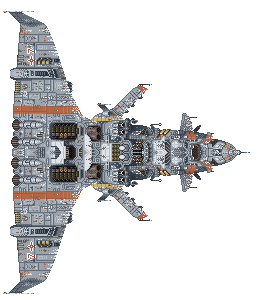
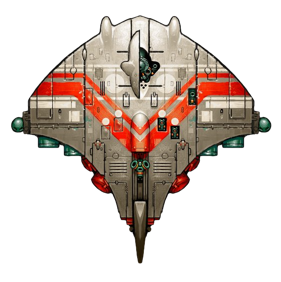
+ new game, 3 types of ship

diff --git a/lib/game_window.rb b/lib/game_window.rb
@@ -144,15 +144,14 @@ class GameWindow < Gosu::Window
   # Adds the first player.
   #
   def add_player1
-    @player1 = Player.new self
-    @player1.warp_to 30, 50 # move to the center of the window
-    # @player1.colorize 255, 0, 0
+    @player1 = Admiral.new self
+    @player1.warp_to 150, 400 # move to the center of the window
     
     @controls << Controls.new(self, @player1,
       Gosu::Button::KbA =>           :left,
       Gosu::Button::KbD =>           :right,
-      Gosu::Button::KbW =>           :away,
-      Gosu::Button::KbS =>           :closer,
+      Gosu::Button::KbW =>           :up,
+      Gosu::Button::KbS =>           :down,
       Gosu::Button::KbLeftShift =>   :shoot,
       Gosu::Button::Kb1 =>           :revive
     )
@@ -165,15 +164,14 @@ class GameWindow < Gosu::Window
   # Adds the second player.
   #
   def add_player2
-    @player2 = Player.new self
-    @player2.warp_to SCREEN_WIDTH/2, 50
-    # @player2.colorize 0, 255, 0
+    @player2 = Captain.new self
+    @player2.warp_to 100, SCREEN_HEIGHT - 150
     
     @controls << Controls.new(self, @player2,
       Gosu::Button::KbH =>     :left,
       Gosu::Button::KbK =>     :right,
-      Gosu::Button::KbU =>     :away,
-      Gosu::Button::KbJ =>     :closer,
+      Gosu::Button::KbU =>     :up,
+      Gosu::Button::KbJ =>     :down,
       Gosu::Button::KbSpace => :shoot,
       Gosu::Button::Kb7 =>     :revive
     )
@@ -187,7 +185,7 @@ class GameWindow < Gosu::Window
   #
   def add_player3
     @player3 = FirstMate.new self
-    @player3.warp_to 30, 100 # move to the center of the window
+    @player3.warp_to 50, 100 # move to the center of the window
     
     @controls << Controls.new(self, @player3,
       Gosu::Button::KbLeft =>       :left,

diff --git a/lib/units/player.rb b/lib/units/player.rb
@@ -19,19 +19,11 @@ class Player < Moveable
     
     @shape = CP::Shape::Circle.new CP::Body.new(0.1, 0.1), 5.0, CP::Vec2.new(0, 0)
     
-    # up-/downgradeable
-    # self.turn_speed     = 0.1
-    # self.acceleration   = 150.0
-    # self.top_speed      = 200.0
-    
     self.friction       = 1.0
     
     @deceleration       = 300.0
     
-    # Keep in mind that down the screen is positive y, which means that PI/2 radians,
-    # which you might consider the top in the traditional Trig unit circle sense is actually
-    # the bottom; thus 3PI/2 is the top
-    self.rotation = 0
+    self.rotation = -Math::PI
     
     @shape.collision_type = :ship
     
@@ -66,6 +58,6 @@ class Player < Moveable
   end
   
   def draw
-    @image.draw_rot position.x, position.y, ZOrder::Player, drawing_rotation, 1.0, 1.0, 1.0, 1.0
+    @image.draw_rot position.x, position.y, ZOrder::Player, drawing_rotation
   end
 end

diff --git a/lib/units/captain.rb b/lib/units/captain.rb
@@ -1,21 +1,21 @@
-class FirstMate < Player
+class Captain < Player
   
   include HorizonOriented
   
   def initialize window
     super window
     
-    @image = Gosu::Image.new window, "media/first_mate.png", false
-    @shape = CP::Shape::Circle.new CP::Body.new(1, 1), 5.0, CP::Vec2.new(0, 0)
+    @image = Gosu::Image.new window, "media/captain.png", false
+    @shape = CP::Shape::Circle.new CP::Body.new(10, 10), 10.0, CP::Vec2.new(0, 0)
     
     self.shoots Bullet
-    self.muzzle_position_func { self.position + horizontal * 20 }
+    self.muzzle_position_func { self.position + horizontal * 40 }
     self.muzzle_velocity_func { |target| horizontal }
     self.muzzle_rotation_func { self.rotation }
     self.frequency = 20
     
     self.rotation = 1.5*Math::PI
-    self.acceleration = 0.25
+    self.acceleration = 0.10
   end
   
 end

diff --git a/lib/units/admiral.rb b/lib/units/admiral.rb
@@ -1,0 +1,27 @@
+class Admiral < Player
+  
+  include HorizonOriented
+  
+  def initialize window
+    super window
+    
+    @image = Gosu::Image.new window, "media/admiral.png", false
+    @shape = CP::Shape::Circle.new CP::Body.new(100, 100), 100.0, CP::Vec2.new(0, 0)
+    
+    self.shoots Bullet
+    self.muzzle_position_func { self.position + vertical * 100 }
+    self.muzzle_velocity_func { |target| horizontal }
+    self.muzzle_rotation_func { self.rotation }
+    self.frequency = 50
+    
+    # self.shoots Drone
+    # self.muzzle_position_func { self.position + vertical * 100 }
+    # self.muzzle_velocity_func { |target| horizontal }
+    # self.muzzle_rotation_func { self.rotation }
+    # self.frequency = 1000
+    
+    self.rotation = 1.5*Math::PI
+    self.acceleration = 0.05
+  end
+  
+end

diff --git a/lib/horizon_oriented.rb b/lib/horizon_oriented.rb
@@ -1,5 +1,12 @@
 module HorizonOriented
   
+  def acceleration= acceleration
+    @acceleration = acceleration
+  end
+  def acceleration
+    @acceleration || 0.15
+  end
+  
   def horizontal
     CP::Vec2.new(1,0)
   end
@@ -7,16 +14,16 @@ module HorizonOriented
     CP::Vec2.new(0,1)
   end
   
-  def left factor = 0.15
+  def left factor = acceleration
     self.speed -= horizontal * factor
   end
-  def right factor = 0.15
+  def right factor = acceleration
     self.speed += horizontal * factor
   end
-  def up factor = 0.15
+  def up factor = acceleration
     self.speed -= vertical * factor
   end
-  def down factor = 0.15
+  def down factor = acceleration
     self.speed += vertical * factor
   end
   

diff --git a/lib/units/bullet.rb b/lib/units/bullet.rb
@@ -1,7 +1,6 @@
 #
 class Bullet < ShortLived
   
-  it_is   EarthOriented
   it_is_a Shot
   
   def initialize window
@@ -16,16 +15,16 @@ class Bullet < ShortLived
                                    CP::Vec2.new(0.0, 0.0))
     @shape.collision_type = :bullet
     
-    self.friction = 0.1
-    self.velocity = 50 + rand(30)
+    self.friction = 0.00
+    self.velocity = 70 + rand(30)
   end
   
   def validate_position
-    closer * 0.05
+    
   end
   
   def draw
-    @image.draw_rot(position.x, position.y, ZOrder::Player, drawing_rotation)
+    @image.draw_rot position.x, position.y, ZOrder::Player, drawing_rotation
   end
   
 end

diff --git a/multiroids.rb b/multiroids.rb
@@ -11,7 +11,7 @@ require 'activesupport'
 require 'gosu'
 require 'chipmunk' # A physics framework.
 
-SCREEN_WIDTH = 1000
+SCREEN_WIDTH = 1200
 SCREEN_HEIGHT = 700
 
 # The number of steps to process every Gosu update
@@ -43,8 +43,12 @@ require 'lib/controls'
 
 require 'lib/ambient/puff'
 require 'lib/ambient/small_explosion'
+
 require 'lib/units/player'
 require 'lib/units/first_mate'
+require 'lib/units/captain'
+require 'lib/units/admiral'
+
 require 'lib/units/cow'
 require 'lib/units/gun'
 require 'lib/units/nuke_launcher'
